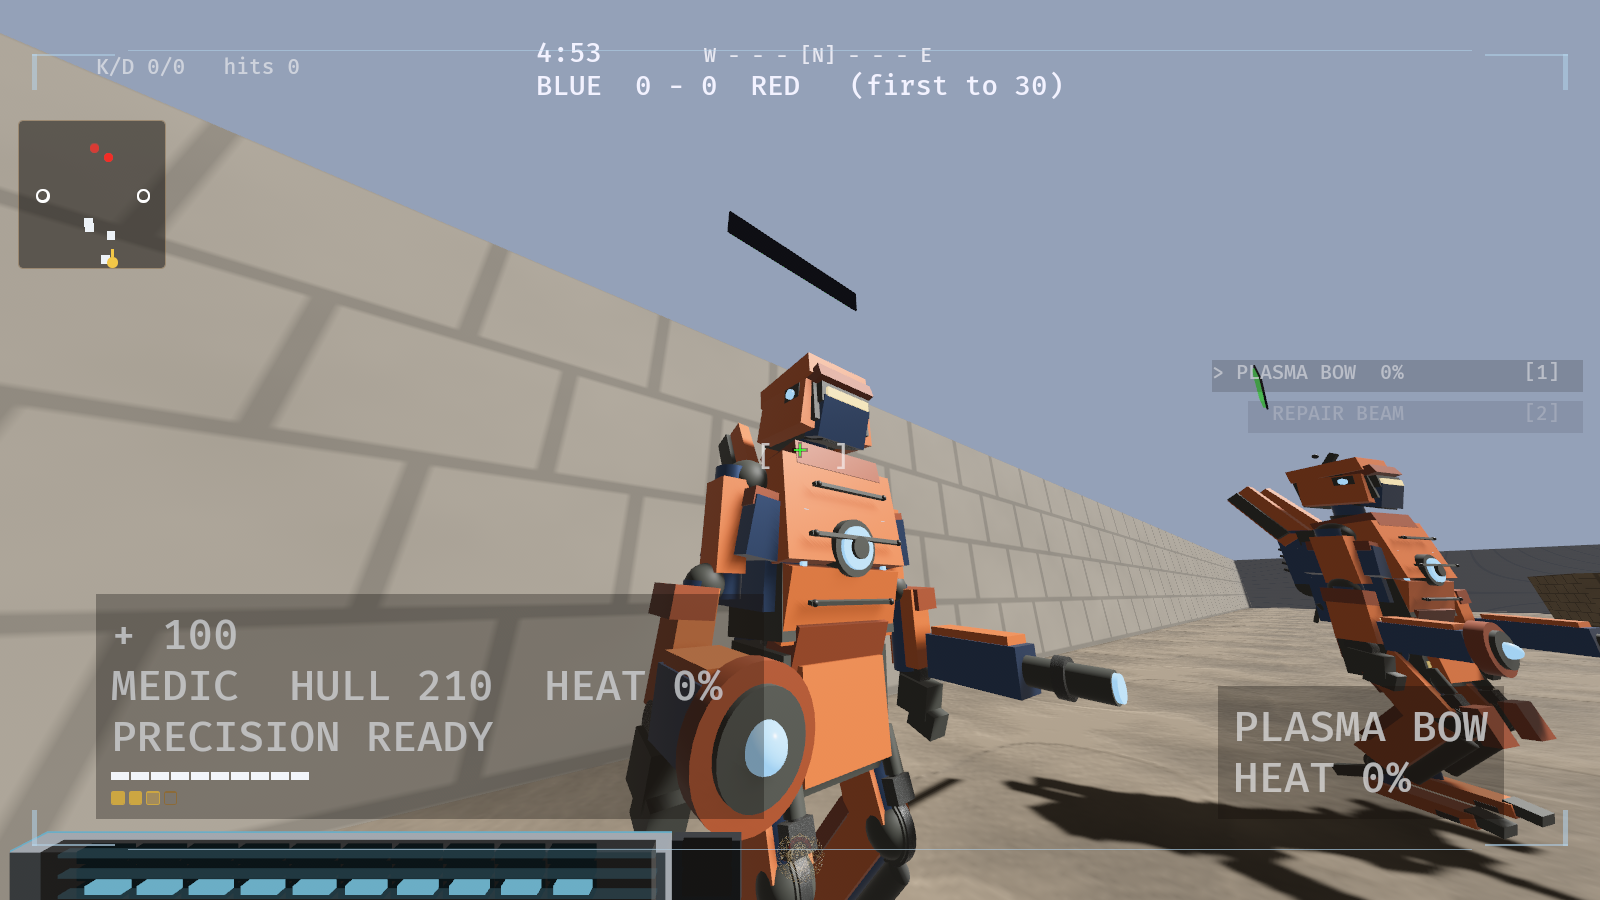
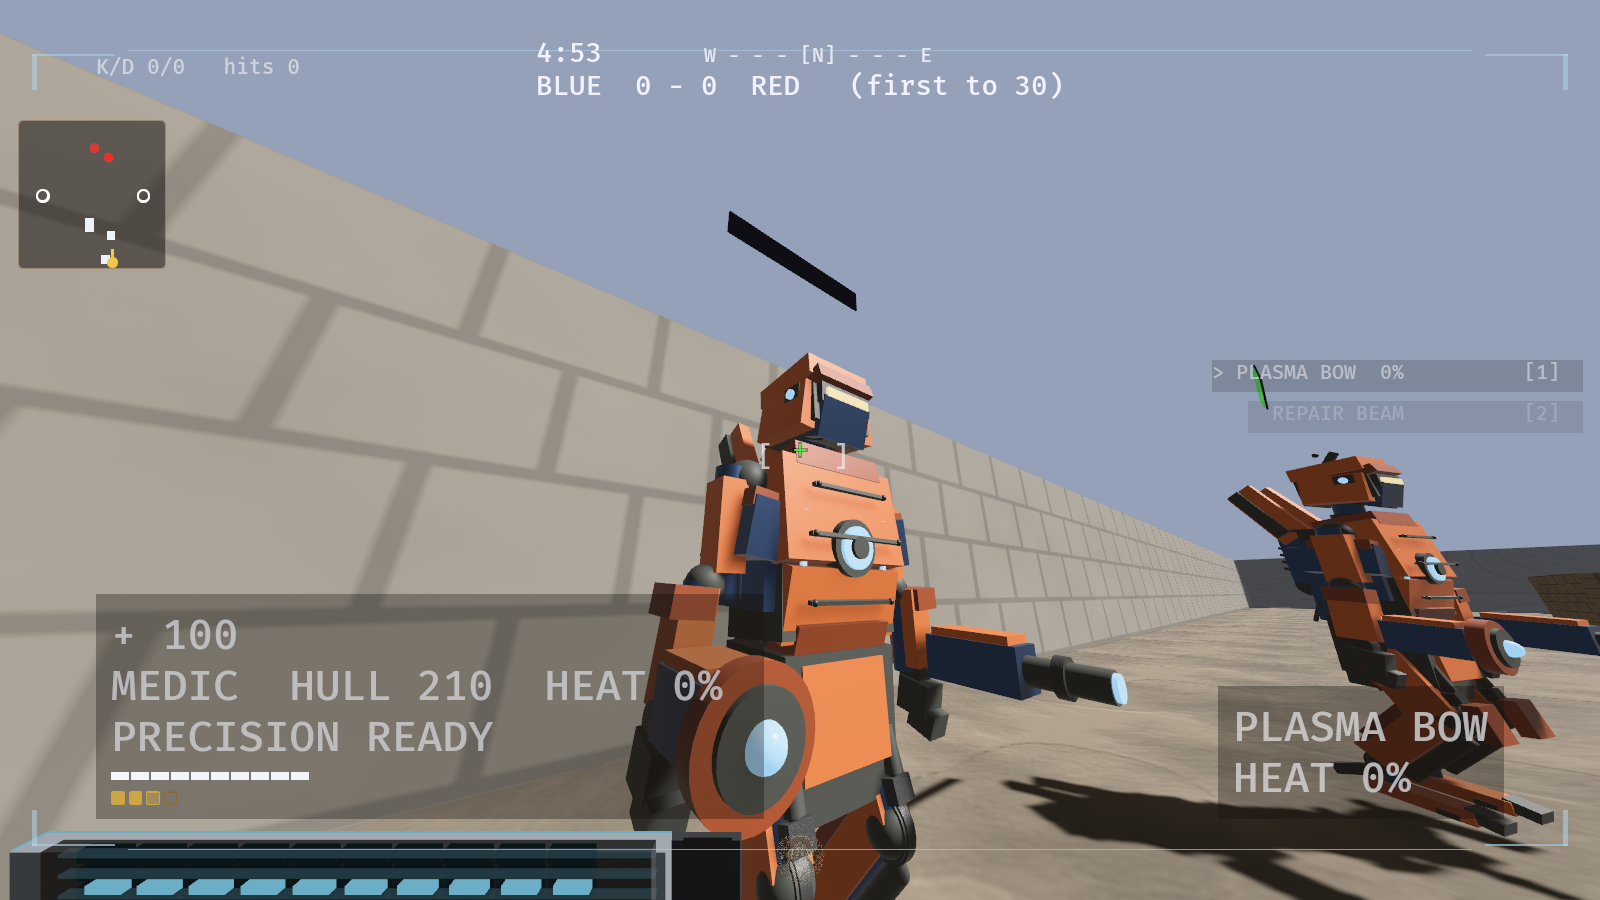
The roll looks at the machine from underneath, and finds the pilot again
`agile_moves` re-timed. The first table put the dodge roll AFTER the
double jump and photographed a machine standing perfectly still twice:
the dodge needs `grounded`, the subject was still descending, and two
frames captioned "roll" contained no roll. The roll comes first now, off
a walk, timed against the sim's own ROLL_LOAD_S + ROLL_S + ROLL_EASE_S.

What it then showed: the tumble is the ONLY camera angle in this game
that looks at a chassis from underneath, and the pelvis had no floor.
The pilot's lowest torso shell reaches y=0.01 and the pelvis block
started at 0.045, so every roll flashed a pale ellipse and a gold stripe
through the machine's crotch. Belly pan added. The pelvis also went
0.385 -> 0.400 wide and 0.265 -> 0.300 deep: the pilot's waist stripe is
0.345 x 0.27 and BRIGHT GOLD, and it had been showing as two yellow tabs
on the machine's hips in every frame since the first build.

THE PALETTE IS DATA NOW. Six colours moved out of `build_kit`'s inline
literals into `agile_mech` consts, which is what makes SPEC15's trap 4
testable for the first time: `the_enemy_agile_never_out_luminates_the_
ally` pins the hull separation at >= 8x in LINEAR light (it is 17x) and
the strict form - every enemy surface below every ally surface. Trevor's
Task 5 asked for that guard; it is paid for here because this is the
pass that moved the colours.

Nine tests, mutation-proven from a file copy: reverse the knee, swap the
[…]

diff --git a/engine/crates/jk_tdm/src/agile_mech.rs b/engine/crates/jk_tdm/src/agile_mech.rs
@@ -142,6 +142,19 @@ pub fn segment(a: Vec3, b: Vec3) -> (Vec3, Quat, f32) {
 /// perpendicular to the limb, not perpendicular to the world. Positive
 /// `off` is the segment's left-hand normal when walking a → b, which for
 /// this leg's thigh and shin is the FORWARD face.
+/// Centre of one sole plate, for a leg at `x`.
+///
+/// A function rather than a literal because it is the one placement on
+/// this machine that has a RIGHT ANSWER: the underside of this plate is
+/// the ground line, and a chassis whose sole floats reads as hovering
+/// while a chassis whose sole sinks reads as broken. Written inline, a
+/// mutation to it was invisible to every test in the crate — the guard
+/// below could only re-check `GROUND_Y + SOLE_H*0.5 - SOLE_H*0.5`, which
+/// is arithmetic about itself. Now the guard calls what the model calls.
+fn sole_centre(x: f32) -> Vec3 {
+    Vec3::new(x, GROUND_Y + SOLE_H * 0.5, -0.020)
+}
+
 fn offset_from(a: Vec3, b: Vec3, along: f32, off: f32) -> Vec3 {
     let d = (b - a).normalize_or_zero();
     let n = Vec3::new(0.0, -d.z, d.y);
@@ -151,6 +164,43 @@ fn offset_from(a: Vec3, b: Vec3, along: f32, off: f32) -> Vec3 {
 // ---------------------------------------------------------------------
 // THE PALETTE (§2)
 // ---------------------------------------------------------------------
+
+/// The Agile Mech's own colours, as sRGB triples, in ONE place.
+///
+/// They live here rather than as literals in `ModelKit`'s constructor
+/// because SPEC15's trap 4 says the ally/enemy read rests on VALUE and
+/// that "the luminance rule is unguarded" - and a rule can only be
+/// guarded if the numbers it is about are reachable from a test. They
+/// were not; `build_kit` typed them inline. `the_enemy_agile_never_out_
+/// luminates_the_ally` is the guard, and it is the one Trevor's Task 5
+/// asked for, paid for here because this is the pass that moved the
+/// colours.
+pub const ARMOR_ALLY: [f32; 3] = [0.90, 0.42, 0.11]; // industrial orange
+pub const ARMOR_FOE: [f32; 3] = [0.075, 0.125, 0.265]; // faction dark blue
+pub const PLATE_ALLY: [f32; 3] = [0.56, 0.235, 0.075]; // burnt orange
+pub const PLATE_FOE: [f32; 3] = [0.40, 0.165, 0.060]; // deep rust
+pub const BLUE_ALLY: [f32; 3] = [0.195, 0.285, 0.435]; // steel blue
+pub const BLUE_FOE: [f32; 3] = [0.150, 0.215, 0.345];
+/// Shared by both sides - a technology colour, not a livery colour.
+pub const ENERGY: [f32; 3] = [0.55, 0.82, 1.00];
+
+/// CIE relative luminance of an sRGB triple.
+///
+/// Written out rather than approximated with a 0.299/0.587/0.114 luma:
+/// the gamma decode is the whole point. In gamma space the enemy's blue
+/// and the ally's orange look four times apart; in linear light they are
+/// seventeen, and seventeen is the number a player's eye is actually
+/// working with at 30 m.
+pub fn relative_luminance(c: [f32; 3]) -> f32 {
+    let lin = |v: f32| {
+        if v <= 0.04045 {
+            v / 12.92
+        } else {
+            ((v + 0.055) / 1.055).powf(2.4)
+        }
+    };
+    0.2126 * lin(c[0]) + 0.7152 * lin(c[1]) + 0.0722 * lin(c[2])
+}
 
 /// The six material roles of §2, resolved for one side.
 ///
@@ -258,7 +308,24 @@ pub fn spawn_agile_chassis(
     // This is also why Brief X's "relatively narrow profile" is bought in
     // the LEGS, the SHOULDERS and the HEAD rather than at the waist: a
     // waist gap is the one place this rig structurally cannot give.
-    part(cube(), lv.graphite.clone(), Vec3::new(0.0, 0.195, 0.0), Quat::IDENTITY, Vec3::new(0.385, 0.30, 0.265));
+    //
+    // 0.40 x 0.30 and both numbers are floors, not taste: the pilot's
+    // waist stripe is 0.345 across and 0.27 DEEP and it is `look.accent`
+    // - bright gold on the ally. The first build's 0.385 x 0.265 left
+    // 2.5 mm of it proud at the front corners, which photographed as two
+    // small yellow tabs on the machine's hips in every frame.
+    part(cube(), lv.graphite.clone(), Vec3::new(0.0, 0.195, 0.0), Quat::IDENTITY, Vec3::new(0.400, 0.30, 0.300));
+    // THE BELLY PAN — a floor, and found the same way the lumbar housing
+    // was. `agile_moves` photographs the dodge roll, which turns the
+    // machine completely over, and that is the only camera angle in the
+    // game that looks at a chassis from UNDERNEATH. The pelvis block's
+    // floor was at y = 0.045 and the pilot's lowest torso shell reaches
+    // down to 0.01, so for a third of a second every roll showed a pale
+    // ellipse and a gold stripe through the machine's own crotch.
+    //
+    // A capture of a state nobody had ever staged found it in one frame;
+    // no test in this crate could have.
+    part(cube(), lv.graphite.clone(), Vec3::new(0.0, 0.030, 0.0), Quat::IDENTITY, Vec3::new(0.360, 0.090, 0.290));
     // the hip drum — one cylinder through both hip balls, so the two legs
     // visibly share an axle. §1's "simple mechanical connectors".
     part(cyl(), lv.blue.clone(), Vec3::new(0.0, HIP.y, HIP.z), Quat::from_rotation_z(FRAC_PI_2), Vec3::new(0.175, 0.40, 0.175));
@@ -453,7 +520,7 @@ pub fn spawn_agile_chassis(
         // for "compact feet"; the old header asked for "BIG FEET" and
         // said so in capitals. This is the reversal, deliberately.
         part(cyl(), lv.blue.clone(), Vec3::new(sd * LEG_X, -0.448, -0.104), Quat::IDENTITY, Vec3::new(0.078, 0.115, 0.078));
-        part(cube(), lv.armor.clone(), Vec3::new(sd * LEG_X, GROUND_Y + SOLE_H * 0.5, -0.020), Quat::IDENTITY, Vec3::new(0.135, SOLE_H, 0.300));
+        part(cube(), lv.armor.clone(), sole_centre(sd * LEG_X), Quat::IDENTITY, Vec3::new(0.135, SOLE_H, 0.300));
         part(cube(), lv.graphite.clone(), Vec3::new(sd * LEG_X, GROUND_Y + 0.032, 0.148), Quat::from_rotation_x(0.22), Vec3::new(0.115, 0.048, 0.092));
         // THE HEEL SPUR. Two centimetres of geometry doing a lot of work:
         // it is what makes a reverse joint read as a reverse joint rather
@@ -590,11 +657,18 @@ mod tests {
     /// every other test in the crate.
     #[test]
     fn the_sole_lands_exactly_on_the_ground_line() {
-        let sole_centre = GROUND_Y + SOLE_H * 0.5;
-        assert!(
-            (sole_centre - SOLE_H * 0.5 - GROUND_Y).abs() < 1e-6,
-            "sole bottom must be GROUND_Y"
-        );
+        // calls the SAME function the model calls - an earlier version of
+        // this test recomputed the expression instead, so nudging the
+        // plate up 9 cm in the builder left the suite green. Rule 12.
+        for x in [-LEG_X, LEG_X] {
+            let c = sole_centre(x);
+            assert!(
+                (c.y - SOLE_H * 0.5 - GROUND_Y).abs() < 1e-6,
+                "sole bottom is {} , not GROUND_Y {GROUND_Y}",
+                c.y - SOLE_H * 0.5
+            );
+            assert!((c.x - x).abs() < 1e-6, "the sole left its own leg");
+        }
         // and the heel spur, the one piece that hangs behind and below
         // the ankle, must not dig through it
         let heel_bottom = GROUND_Y + 0.060 - 0.048 * 0.5 - 0.150 * 0.5 * 0.38_f32.sin();
@@ -623,9 +697,19 @@ mod tests {
         // pass - this assertion is why that got fixed instead of shipped.)
         let px = SHOULDER_HALF_W - PAULDRON_W * 0.5;
         assert!(px + 0.098 * 0.5 <= SHOULDER_HALF_W + 1e-6, "the pauldron lip overhangs");
-        // and the arm underneath it must be inboard of the cap, or the
-        // shoulder reads as a shelf with nothing under it
-        assert!(0.368 + 0.108 * 0.5 < SHOULDER_HALF_W, "the elbow is wider than the shoulder");
+        // The SHOULDER is not the widest point of this machine and never
+        // could be: `MOUNT_X` is pinned at 0.445 by the sim, the arm has
+        // to reach it, and so the elbow sits outboard of the cap. (An
+        // earlier version of this test asserted the opposite and failed,
+        // which is the right way round to find out.) What §3's "smaller
+        // shoulder structure" claim really is, then, is this: the
+        // shoulder is inboard of the weapon it feeds, so the machine's
+        // outline tapers from the mount IN toward the neck rather than
+        // bulging at the top the way a heavy's hull housings do.
+        assert!(
+            SHOULDER_HALF_W < MOUNT_X,
+            "{SHOULDER_HALF_W} is not inboard of the mount at {MOUNT_X}"
+        );
     }
 
     /// The machine must stay inside the height envelope the old one
@@ -639,6 +723,55 @@ mod tests {
         const OLD_CROWN: f32 = 1.02 + 0.42 * 0.5;
         assert!(CROWN_Y <= OLD_CROWN, "{CROWN_Y} exceeds the old {OLD_CROWN}");
         assert!(CROWN_Y - GROUND_Y > 1.6, "the machine has lost its stature");
+    }
+
+    /// SPEC15 trap 4, guarded at last: "ally/enemy separation rests on
+    /// VALUE, not hue, and the enemy's light blue is ALREADY brighter
+    /// than the ally's brightest tone. Only part coverage saves it."
+    ///
+    /// Two invariants, and the second is the strict one:
+    ///  - the DOMINANT armour, which is what a machine reads as at range,
+    ///    separates by at least 8x in linear light;
+    ///  - and the enemy's brightest surface stays below the ally's
+    ///    DIMMEST, so no enemy panel can ever be mistaken for an ally
+    ///    panel however the light falls.
+    ///
+    /// Mutation-proof: swap either side's hull colour, or lighten the
+    /// enemy's rust plate past the ally's burnt orange, and this fails.
+    /// The thresholds are judgement calls stated as numbers; they are not
+    /// derived from the colours they judge.
+    #[test]
+    fn the_enemy_agile_never_out_luminates_the_ally() {
+        let l = relative_luminance;
+        let ratio = l(ARMOR_ALLY) / l(ARMOR_FOE);
+        assert!(
+            ratio >= 8.0,
+            "hull separation is only {ratio:.1}x ({} vs {})",
+            l(ARMOR_ALLY),
+            l(ARMOR_FOE)
+        );
+        let brightest_foe = l(ARMOR_FOE).max(l(PLATE_FOE)).max(l(BLUE_FOE));
+        let dimmest_ally = l(ARMOR_ALLY).min(l(PLATE_ALLY)).min(l(BLUE_ALLY));
+        assert!(
+            brightest_foe < dimmest_ally,
+            "an enemy surface at {brightest_foe:.4} is brighter than an \
+             ally surface at {dimmest_ally:.4}"
+        );
+        // and the shared energy accent must out-shine every PAINTED
+        // surface on either side, or "lit" stops reading as lit.
+        assert!(l(ENERGY) > l(ARMOR_ALLY), "the accent is dimmer than the paint");
+    }
+
+    /// A sanity anchor for `relative_luminance` itself, so the guard
+    /// above cannot be satisfied by a broken formula. Black is 0, white
+    /// is 1, and mid-grey sRGB 0.5 decodes to ~0.214 - the classic value
+    /// that catches anyone who forgot the gamma.
+    #[test]
+    fn relative_luminance_decodes_gamma() {
+        assert!(relative_luminance([0.0; 3]).abs() < 1e-6);
+        assert!((relative_luminance([1.0; 3]) - 1.0).abs() < 1e-4);
+        let mid = relative_luminance([0.5; 3]);
+        assert!((mid - 0.2140).abs() < 0.002, "mid grey decoded to {mid}");
     }
 
     /// The leg is a REVERSE JOINT, and that is a geometric claim, not a

diff --git a/engine/crates/jk_tdm/src/main.rs b/engine/crates/jk_tdm/src/main.rs
@@ -5556,48 +5556,67 @@ const AGILE_BODY_BEATS: &[CapBeat] = &[
 /// verb for a pilot on foot against an enemy mech's stripped plates
 /// (`climb_target` requires `!p.in_mech()` and a dropped plate bit), so
 /// no frame of an Agile Mech climbing exists to take. See the report.
+/// The beat times are the SIM's own clocks, not guesses. `ROLL_LOAD_S`
+/// 0.10 + `ROLL_S` 0.55 + `ROLL_EASE_S` 0.14 = a 0.79 s tumble whose
+/// progress runs through `ease_out`, so it is more than half turned by a
+/// third of the way in; `FLIP_S` is 0.62.
+///
+/// THE ROLL COMES FIRST, before any jump. The first run of this table put
+/// it after the double jump and photographed a machine standing perfectly
+/// still twice: the dodge needs `grounded`, the subject was still coming
+/// down, and the two frames labelled "roll" showed no roll at all. A beat
+/// that names a state it never reaches is worse than no beat - it puts a
+/// picture of the wrong thing under the right caption.
 const AGILE_MOVES_BEATS: &[CapBeat] = &[
     CapBeat { look: Some((0.0, 0.10)), orbit: Some(PI * 0.72), ..beat(0.3) },
     CapBeat { snap: Some("01-standing"), ..beat(1.0) },
     // WALKING, so the gait is in the record next to the standing pose.
     CapBeat { press: &[CapKey::K(KeyCode::KeyW)], ..beat(1.2) },
     CapBeat { snap: Some("02-walking"), ..beat(1.9) },
+    // GROUND DODGE ROLL, from a walk so it launches FORWARD rather than
+    // defaulting to the facing. A full tumble about a point 0.6 m up:
+    // mid-roll is where a detached plate, a floating mount or a shin
+    // through the floor would show, and nothing in this harness had ever
+    // taken that frame on this chassis.
+    CapBeat { press: &[CapKey::K(KeyCode::KeyQ)], ..beat(2.1) },
+    CapBeat { release: &[CapKey::K(KeyCode::KeyQ)], ..beat(2.2) },
+    CapBeat { snap: Some("03-roll-early"), ..beat(2.22) },
+    CapBeat { snap: Some("04-roll-inverted"), ..beat(2.38) },
+    CapBeat {
+        release: &[CapKey::K(KeyCode::KeyW)],
+        snap: Some("05-roll-recover"),
+        ..beat(2.62)
+    },
     // GROUND JUMP, then the SECOND press in the air - the scout's own
-    // `scout_air_jump_used` charge. Two frames: the first ascent, and the
-    // kick that only this chassis has.
-    CapBeat { press: &[CapKey::K(KeyCode::Space)], ..beat(2.1) },
-    CapBeat { release: &[CapKey::K(KeyCode::Space)], ..beat(2.2) },
-    CapBeat { snap: Some("03-jump-first"), ..beat(2.45) },
-    CapBeat { press: &[CapKey::K(KeyCode::Space)], ..beat(2.55) },
-    CapBeat { release: &[CapKey::K(KeyCode::Space)], ..beat(2.65) },
-    CapBeat { snap: Some("04-double-jump"), ..beat(2.9) },
-    CapBeat { snap: Some("05-double-jump-apex"), ..beat(3.3) },
-    // GROUND DODGE ROLL. W is still held, so it launches forward rather
-    // than defaulting to the facing. The roll is a full tumble about a
-    // point 0.6 m up, so mid-roll is where a detached plate or a shin
-    // through the floor would show.
-    CapBeat { press: &[CapKey::K(KeyCode::KeyQ)], ..beat(4.4) },
-    CapBeat { release: &[CapKey::K(KeyCode::KeyQ)], ..beat(4.5) },
-    CapBeat { snap: Some("06-roll-early"), ..beat(4.62) },
-    CapBeat { snap: Some("07-roll-inverted"), ..beat(4.80) },
-    CapBeat { snap: Some("08-roll-recover"), ..beat(5.05) },
-    // AIR FLIP, then the SECOND flip - `scout_second_flip_used`, the one
-    // charge no other chassis has. Jump, Q, Q again.
-    CapBeat { press: &[CapKey::K(KeyCode::Space)], ..beat(6.0) },
-    CapBeat { release: &[CapKey::K(KeyCode::Space)], ..beat(6.1) },
-    CapBeat { press: &[CapKey::K(KeyCode::KeyQ)], ..beat(6.25) },
-    CapBeat { release: &[CapKey::K(KeyCode::KeyQ)], ..beat(6.35) },
-    CapBeat { snap: Some("09-air-flip-first"), ..beat(6.50) },
-    CapBeat { snap: Some("10-air-flip-inverted"), ..beat(6.68) },
-    CapBeat { press: &[CapKey::K(KeyCode::KeyQ)], ..beat(6.95) },
-    CapBeat { release: &[CapKey::K(KeyCode::KeyQ)], ..beat(7.05) },
-    CapBeat { snap: Some("11-air-flip-second"), ..beat(7.20) },
+    // `scout_air_jump_used` charge, which no other chassis has. Two
+    // frames: the first ascent, and the kick that follows it.
+    // (`ROLL_CD_S` is 0.9 s on top of the 0.79 s roll, so the jump waits
+    // until 4.0 - pressing Space earlier is legal, but a subject still
+    // easing out of a tumble makes an unreadable frame.)
+    CapBeat { press: &[CapKey::K(KeyCode::Space)], ..beat(4.0) },
+    CapBeat { release: &[CapKey::K(KeyCode::Space)], ..beat(4.1) },
+    CapBeat { snap: Some("06-jump-first"), ..beat(4.35) },
+    CapBeat { press: &[CapKey::K(KeyCode::Space)], ..beat(4.45) },
+    CapBeat { release: &[CapKey::K(KeyCode::Space)], ..beat(4.55) },
+    CapBeat { snap: Some("07-double-jump-kick"), ..beat(4.80) },
+    CapBeat { snap: Some("08-double-jump-apex"), ..beat(5.25) },
+    // AIR FLIP, then the SECOND flip - `scout_second_flip_used`. Jump,
+    // Q, and Q again once `flip_t` has run out at +0.62.
+    CapBeat { press: &[CapKey::K(KeyCode::KeyW), CapKey::K(KeyCode::Space)], ..beat(6.6) },
+    CapBeat { release: &[CapKey::K(KeyCode::Space)], ..beat(6.7) },
+    CapBeat { press: &[CapKey::K(KeyCode::KeyQ)], ..beat(6.85) },
+    CapBeat { release: &[CapKey::K(KeyCode::KeyQ)], ..beat(6.95) },
+    CapBeat { snap: Some("09-air-flip-first"), ..beat(7.00) },
+    CapBeat { snap: Some("10-air-flip-inverted"), ..beat(7.20) },
+    CapBeat { press: &[CapKey::K(KeyCode::KeyQ)], ..beat(7.55) },
+    CapBeat { release: &[CapKey::K(KeyCode::KeyQ)], ..beat(7.65) },
+    CapBeat { snap: Some("11-air-flip-second"), ..beat(7.78) },
     CapBeat {
         release: &[CapKey::K(KeyCode::KeyW)],
         snap: Some("12-landed"),
-        ..beat(7.9)
+        ..beat(8.6)
     },
-    CapBeat { end: true, ..beat(8.4) },
+    CapBeat { end: true, ..beat(9.1) },
 ];
 
 /// §owner THE FOUR ARMOUR TRIMS, in one frame.
@@ -14353,6 +14372,10 @@ fn setup(
         }
         m
     };
+    // BRIEF X: the Agile Mech's palette is DATA, declared once in
+    // `agile_mech`, so a test can reach it. This is only the adapter into
+    // Bevy's `Color`; the numbers themselves are not repeated here.
+    let srgb3 = |c: [f32; 3]| Color::srgb(c[0], c[1], c[2]);
     let kit = ModelKit {
         cube: meshes.add(with_tangents(Cuboid::new(1.0, 1.0, 1.0).into())),
         cyl: meshes.add(with_tangents(Cylinder::new(0.5, 1.0).into())),
@@ -14689,7 +14712,7 @@ fn setup(
         // industrial armour" - hence metallic 0.10 and roughness 0.55,
         // both unchanged. Paint, not a traffic cone.
         scout_hull: materials.add(StandardMaterial {
-            base_color: Color::srgb(0.90, 0.42, 0.11), // industrial orange
+            base_color: srgb3(agile_mech::ARMOR_ALLY), // industrial orange
             metallic: 0.10,
             perceptual_roughness: 0.55, // painted, not polished
             ..default()
@@ -14702,7 +14725,7 @@ fn setup(
         // are the big rounded masses (torso egg, head dome, limb shells),
         // so this is what the machine reads as at range.
         scout_hull_foe: materials.add(StandardMaterial {
-            base_color: Color::srgb(0.075, 0.125, 0.265),
+            base_color: srgb3(agile_mech::ARMOR_FOE),
             metallic: 0.35,
             perceptual_roughness: 0.50,
             ..default()
@@ -14712,7 +14735,7 @@ fn setup(
         // desaturated yellow and read as a second amber rather than as a
         // second LAYER.
         scout_plate: materials.add(StandardMaterial {
-            base_color: Color::srgb(0.56, 0.235, 0.075), // burnt orange
+            base_color: srgb3(agile_mech::PLATE_ALLY), // burnt orange
             metallic: 0.12,
             perceptual_roughness: 0.52,
             ..default()
@@ -14747,7 +14770,7 @@ fn setup(
         // If the owner wants the opposition Agile orange-primary like the
         // player's, this line and `scout_hull_foe` are the whole change.
         scout_plate_foe: materials.add(StandardMaterial {
-            base_color: Color::srgb(0.40, 0.165, 0.060),
+            base_color: srgb3(agile_mech::PLATE_FOE),
             metallic: 0.30,
             perceptual_roughness: 0.48,
             ..default()
@@ -14795,7 +14818,7 @@ fn setup(
         // hue, or a blue-grey next to an orange just reads as a second
         // colour of paint.
         agile_blue: materials.add(StandardMaterial {
-            base_color: Color::srgb(0.195, 0.285, 0.435), // steel blue
+            base_color: srgb3(agile_mech::BLUE_ALLY), // steel blue
             metallic: 0.80,
             perceptual_roughness: 0.34,
             ..default()
@@ -14805,7 +14828,7 @@ fn setup(
         // mechanism reads at all on a dark machine - and it is still far
         // beneath the ally's orange, so the luminance rule is unaffected.
         agile_blue_foe: materials.add(StandardMaterial {
-            base_color: Color::srgb(0.150, 0.215, 0.345),
+            base_color: srgb3(agile_mech::BLUE_FOE),
             metallic: 0.75,
             perceptual_roughness: 0.36,
             ..default()
@@ -14823,7 +14846,7 @@ fn setup(
         // edges, two temple pods, the reactor band and the two muzzles:
         // fourteen pieces, none larger than 16 cm.
         agile_energy: materials.add(StandardMaterial {
-            base_color: Color::srgb(0.55, 0.82, 1.00),
+            base_color: srgb3(agile_mech::ENERGY),
             emissive: LinearRgba::new(0.45, 1.50, 3.00, 1.0),
             perceptual_roughness: 0.28,
             ..default()
